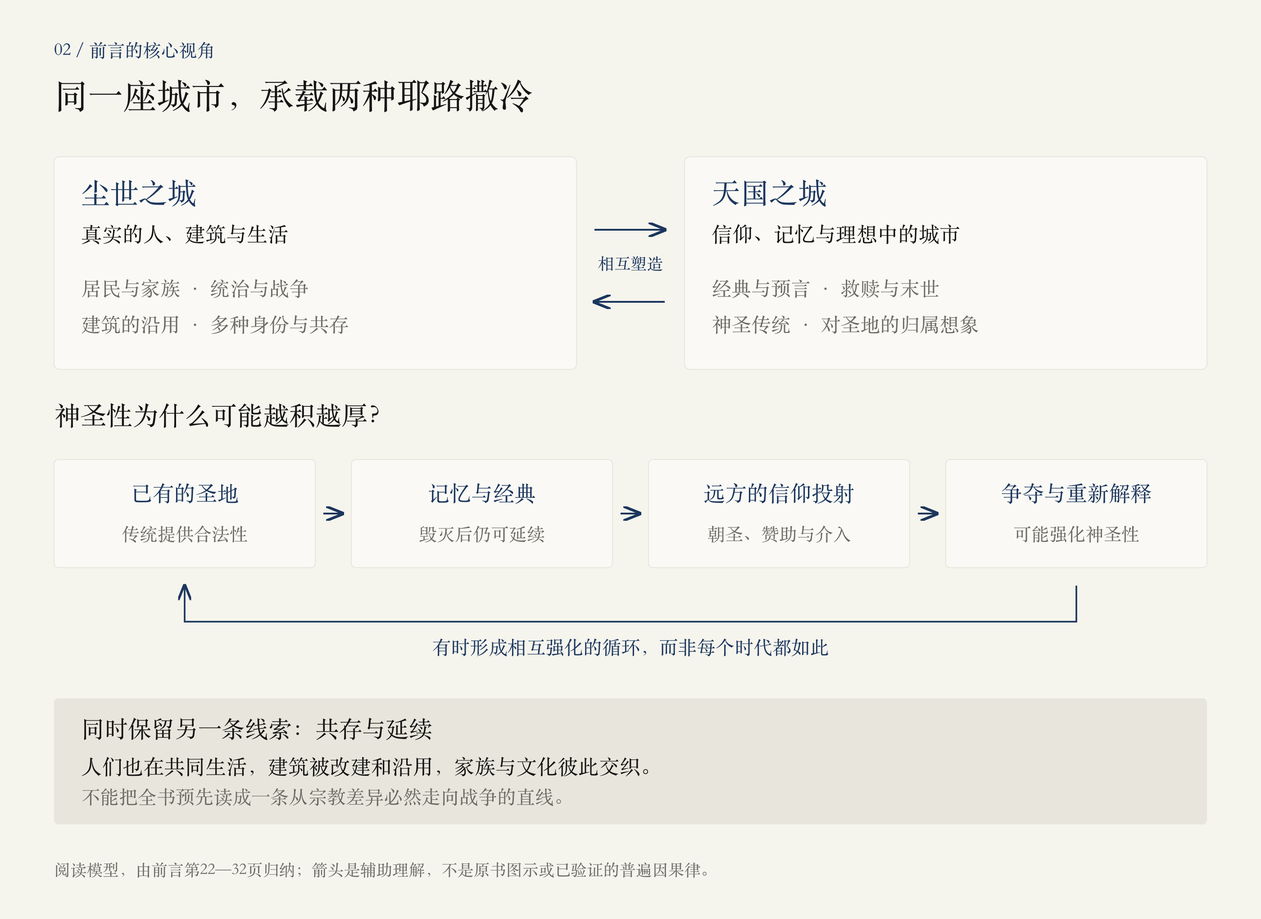
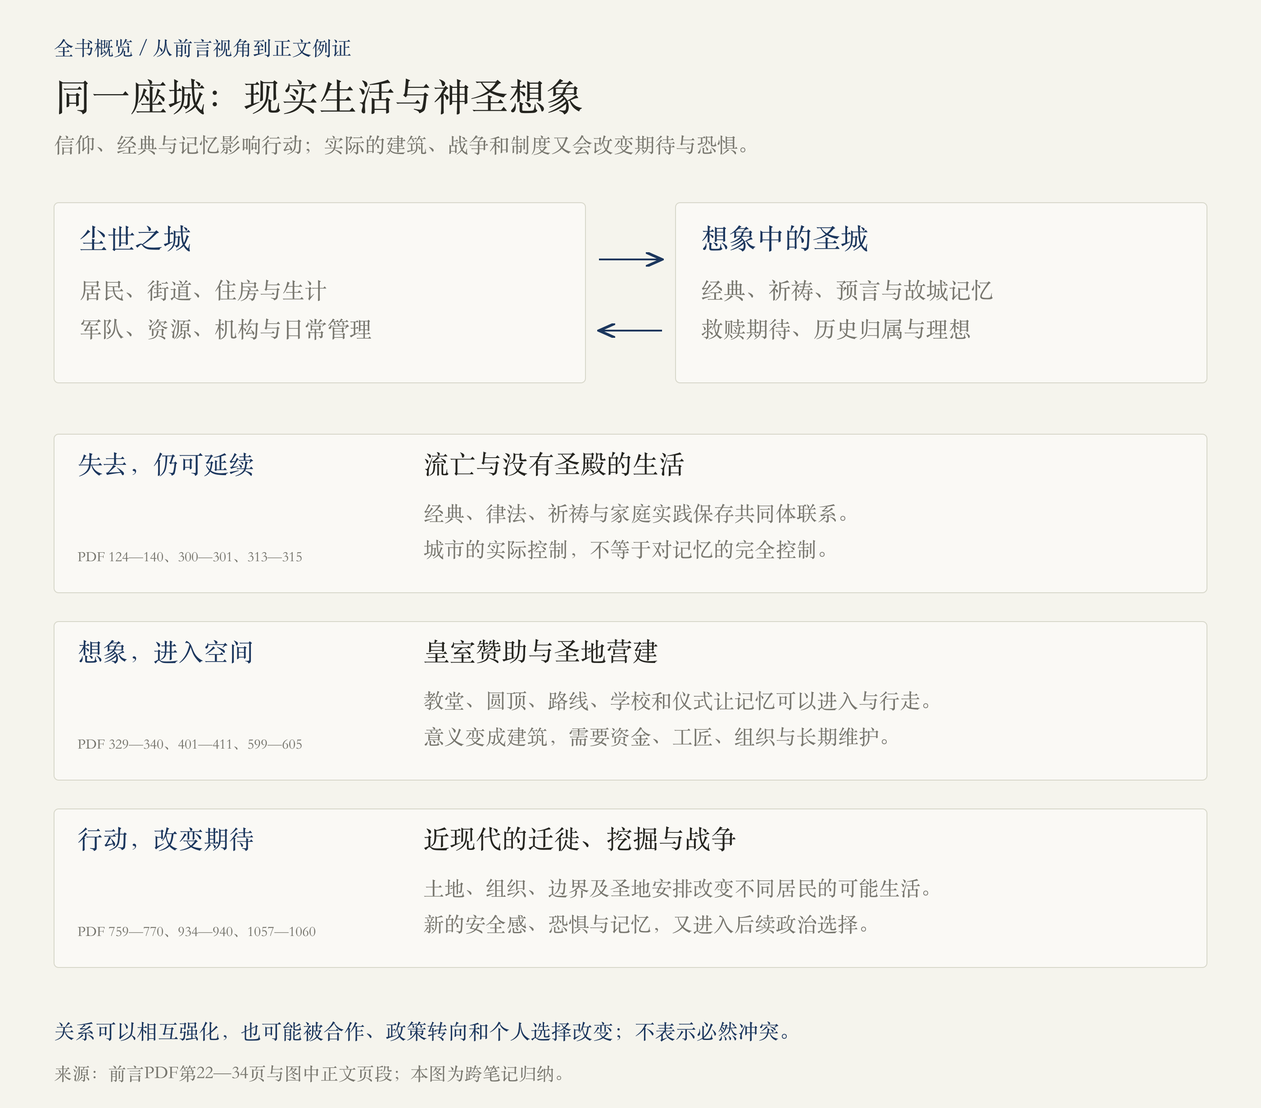
docs: synthesize Jerusalem overview from completed reading notes

diff --git a/books/jerusalem/notes/00-overview.md b/books/jerusalem/notes/00-overview.md
@@ -3,145 +3,141 @@ id: jerusalem-overview
 book_id: jerusalem
 title: 全书概览：一座小城，如何承载整个世界
 kind: overview
-status: 基于目录与前言
-version: 1
-updated: 2026-10-26
+status: 综合九部分正文、后记与既有导读
+version: 2
+updated: 2026-11-01
 source_pdf: /Users/billson/Downloads/耶路撒冷三千年.pdf
-source_ranges: 目录 PDF 6—18；前言 PDF 21—39
+source_ranges: 目录 PDF 6—18；前言 PDF 21—39；九部分正文及注释 PDF 60—1061；后记及注释 PDF 1062—1107；本次依据既有笔记综合，未新增PDF阅读
 ---
 
 # 全书概览：一座小城，如何承载整个世界
 
-> 阅读边界：本篇只依据目录与前言，不包含序幕、正文或后记的内容总结。页码均指这份PDF从第一页开始计算的文件页码。“今天”“当今”等表述若涉及原书观点，属于作者写作时的语境，不代表2026年的局势。
+> 阅读边界：v2依据此前整理的目录与前言、九部分第1—53章及后记笔记综合更新，本次未新增PDF阅读。对应来源为PDF第6—18、21—39、60—1107页；序幕第40—59页仍未单独精读，附录等不在范围。正文主线止于1967年，后记延伸至作者约2010—2011年的写作语境，不代表当代局势。所有页码均为PDF物理页码。
 
 <!-- block: core-question -->
-## 01 · 这本书究竟在讲什么
+## 01 · 读到后记，再回答：这本书究竟在讲什么？
 
-**一句话：作者以人物与家族为线索，按时间顺序讲述耶路撒冷如何被建造、毁坏、记忆和重新解释，逐渐成为多种信仰、帝国与民族诉求交汇的城市。**
+  **这是一部城市传记：神圣记忆不断吸引统治者、朝圣者与远方力量，他们把信仰和政治目标变成建筑、制度与战争；居民则在这些变化中谋生、迁徙、保存记忆，并重新定义自己的归属。**  作者以人物和家族串联三千年的变化，呈现同一座城如何被建造、毁坏、修复和解释。[前言，PDF第21—34页；各部分综合]
 
-它的中心问题是：为什么偏偏是耶路撒冷？前言指出，这座城市自然条件并不优越，远离海岸贸易路线、缺水，却吸引了远超其规模的情感与权力投入。理解它，需要同时看见现实中的居民与统治者，以及人们不断投射到它身上的神圣意义。[前言，PDF第21—27页]
+开卷时的问题是“为什么偏偏是耶路撒冷”。读到结尾后，可以把答案分成两层：经典、圣地传统、流亡记忆和救赎期待，使它的重要性远超地理规模；军队、财富、组织、外交、土地和日常管理，则决定这些意义怎样进入现实。一座城可以失去政治中心地位，却继续吸引远方的资源与情感。[第一部分PDF第117—140页；第三部分第323—340页；第六部分第596—616页；第八部分第708—764页]
 
-全书的基本写法是“城市传记”：时间是骨架，人物与家族是叙事载体。作者希望把古代王城、三大宗教、帝国竞争和现代民族运动放在同一条历史线上，但不把后来的结局写成早已注定的结果。[前言，PDF第28—34页]
+全书也不断让我们看见意义与后果之间的距离：建造壮丽圣所的君主未必解决继承和治理问题；宣称保护信仰的政权可能限制其他居民；取得城市的军队仍要面对通行、管理与生活安排。  **判断一次“胜利”，既要看谁获得了什么，也要看谁失去了什么。**  [第一部分第192—227页；第五部分第548—551、574—583页；第九部分第1008—1035页；后记第1067—1091页]
 
 <!-- block: book-map -->
-## 02 · 先看全书地图
+## 02 · 九部分与后记：每一段给了我们什么理解？
 
-![九部分阅读地图](../assets/overview-map.png)
+![九部分与后记的全书回读地图：从王城与圣殿，到国家、家园与清晨的日常](../assets/overview-map.png)
 
-图中时间表示目录的叙事范围，轴线不按年数比例绘制。分部以宗教、王朝或运动命名，只是在强调叙事重心；不能理解为某一信仰出现后，之前的人群就消失了。
+图按分部顺序排列，时间不按比例。分部标题标示叙事重心，信仰、人口和制度始终交叠；章题年代也不能替代正文实际范围。
 
 ### 01 · 犹太教｜第1—13章｜古代起源—公元70年
 
-**王城、圣殿与流亡。** 目录中的主要节点包括：大卫、所罗门、巴比伦、希律、耶稣、犹太战争。
-
-带着这个问题读：王城与圣殿如何成为共同体的中心？毁灭之后，记忆如何延续？
+王权与圣殿把城市变成共同体中心，亡国流亡又使经典、律法和故城记忆承担延续身份的作用。重建以后，希腊化、王朝竞争和罗马统治继续改变它；耶稣、雅各与保罗的讨论，则涉及救赎与共同体边界。  **建筑和国家可以失去，宗教与城市的联系仍能延续。**  第13章止于提图斯进军，70年围城详述在尚未精读的序幕，不能由章题补成已读经过。[回读第一部分](#/read/jerusalem-part-01)｜PDF第60—292页。
 
 ### 02 · 异教｜第14章｜70—312年
 
-**罗马重新定义城市。** 目录中的主要节点包括：罗马统治、哈德良、巴尔·科赫巴。
-
-带着这个问题读：征服者如何通过改造城市与圣地，重写它的身份？
+罗马以凯旋、税收、改名、道路和神庙重新定义城市。犹太人的律法与祈祷、基督徒的圣地传统，却在不同处境中继续发展。  **帝国控制公共空间，无法保证控制人们怎样记忆它。**  70年毁城与科赫巴起义后的惩罚属于不同断裂。[回读第二部分](#/read/jerusalem-part-02)｜PDF第293—320页。
 
 ### 03 · 基督教｜第15—16章｜312—630年
 
-**基督教圣城的塑造。** 目录中的主要节点包括：君士坦丁、海伦娜、拜占庭、波斯入侵。
-
-带着这个问题读：帝国的支持与对圣迹的追寻，如何改变城市的宗教重心？
+皇帝与贵族的支持，把地点记忆变成圣墓大教堂、朝圣路线、修道院和接待设施。新繁荣伴随教义竞争、排斥和街头暴力，波斯与拜占庭战争又改变社群处境。  **宗教取得帝国支持后，仍需面对内部协调和如何对待他者的问题。**  [回读第三部分](#/read/jerusalem-part-03)｜PDF第321—372页。
 
 ### 04 · 伊斯兰教｜第17—20章｜630—1099年
 
-**新的信仰进入旧圣地。** 目录中的主要节点包括：阿拉伯征服、倭玛亚、阿拔斯、法蒂玛。
-
-带着这个问题读：新信仰如何解释和利用已有的神圣空间？
+阿拉伯征服与倭玛亚营建，使圣殿山获得新的建筑、礼拜和王朝意义。其后权力中心转移，保护、限制、迫害与修复随政治环境变化。  **同一片圣地可以被重新解释，同一宗教统治也没有永恒不变的待遇规则。**  岩石圆顶、阿克萨与整个平台需要分别辨认。[回读第四部分](#/read/jerusalem-part-04)｜PDF第373—450页。
 
 ### 05 · 十字军东征｜第21—28章｜1099—1250年
 
-**圣战、王国与重新争夺。** 目录中的主要节点包括：十字军王国、梅利桑德、萨拉丁、理查。
-
-带着这个问题读：宗教目标如何与王朝、战争、外交和个人命运交织？
+夺城与屠杀之后，拉丁王国还要解决港口、兵力、人口和继承。萨拉丁征服、理查作战及后续谈判，把城市控制、圣地管理和朝圣通行拆成不同安排。  **攻得下、守得住、管得好与允许他人进入，需要不同条件。**  协议也可能遗漏居民利益，或在权力变化后失去保障。[回读第五部分](#/read/jerusalem-part-05)｜PDF第451—588页。
 
 ### 06 · 马木鲁克｜第29—30章｜1250—1517年
 
-**苏丹统治下的朝圣之城。** 目录中的主要节点包括：拜巴尔斯、纳西尔·穆罕默德、朝圣活动。
-
-带着这个问题读：聚光灯之外，这座城市如何继续生活？
+苏丹、军官与宗教资助者建设学校、修道院、陵墓和市场；瓦克夫连接信仰、公共用途与家族延续。城市同时经历苛征、治安不稳和准入限制。  **神圣声望和宏伟建筑，并不能独自保障居民的安全与生计。**  [回读第六部分](#/read/jerusalem-part-06)｜PDF第589—618页。
 
 ### 07 · 奥斯曼｜第31—33章｜1517—1799年
 
-**帝国、城墙与地方家族。** 目录中的主要节点包括：苏莱曼、神秘主义者、弥赛亚、地方家族。
-
-带着这个问题读：中央权力、地方家族与宗教生活怎样共同塑造城市？
+苏莱曼的城墙、供水和慈善工程改变实际城市；远方移民、宗教期待与外交保护拓展其联系，地方家族则通过职位、财富、学识和圣地职责积累影响。  **帝国、远方与家族，共同构成城市运作的网络。**  后来的统治沿用前代石材与建筑，保存也伴随改写。[回读第七部分](#/read/jerusalem-part-07)｜PDF第619—667页。
 
 ### 08 · 帝国｜第34—41章｜1799—1898年
 
-**世界重新把目光投向圣城。** 目录中的主要节点包括：拿破仑、欧洲列强、传教士、旅行者、考古学家。
-
-带着这个问题读：遥远的强国、宗教想象与知识生产，如何介入本地生活？
+远征之外，领事保护、传教、慈善、买地、考古和旅游，都成为介入圣城的方式。多个社群共同推动城外扩张，本地语言、商业和节日生活继续发展。  **即使没有取得城市主权，远方力量也能持续改变居民的选择。**  朝圣、避难迁徙和政治组织需要分别理解。[回读第八部分](#/read/jerusalem-part-08)｜PDF第668—797页。
 
 ### 09 · 犹太复国主义｜第42—53章｜1898—1967年
 
-**民族诉求、托管与战争。** 目录中的主要节点包括：赫茨尔、阿拉伯起义、英国托管、1948年、六日战争。
+政治运动把安全与自决诉求变成组织、外交、移民和国家计划；奥斯曼终结、英国托管、反抗与镇压、纳粹大屠杀及战争，使竞争不断改变。1948年建国的经验与巴勒斯坦人失去家园的灾难，同时进入城市历史；1949年的分隔与1967年的老城易手，又改变实际通路和圣地安排。  **宗教归返、民族家园、国家建立与军事控制，须逐层辨认。**  [回读第九部分](#/read/jerusalem-part-09)｜PDF第798—1061页。
 
-带着这个问题读：古老的神圣空间如何成为现代民族与国家诉求的焦点？
+### 后记 · 从那时到现在／明天／今晨
 
-以上各部分的问题是根据目录提出的阅读线索，尚不是对各章论证结果的总结。[目录，PDF第6—18页]
+作者回顾1967年后的建设、冲突与和平谈判，讨论共享城市的条件，最后让镜头停在拉比、钥匙保管人、守门人与宣礼吏的日常工作。  **占有城市，与让不同的人实际居住、进入和礼拜，仍有距离；城市也依靠每天履行职责的人延续。**  “明天”中的方案属于作者写作时的愿景。[回读后记](#/read/jerusalem-epilogue)｜PDF第1062—1107页。
 
 <!-- block: interpretive-model -->
-## 03 · 前言给了我们怎样的理解框架
+## 03 · 两个耶路撒冷，怎样在正文中相互塑造？
 
-![两个耶路撒冷与神圣性的累积](../assets/two-jerusalems.png)
+![现实城市与想象圣城的双向关系，以及古代、帝国营建、近现代三组例子](../assets/two-jerusalems.png)
 
-### 一座现实城市，也是一座想象中的城市
+“尘世之城”包含街道、居民、住房、资源和权力；“天国之城”包含经典、信仰、预言、记忆与理想。前言给出的这组视角，在正文中有三种尤其清楚的表现：
 
-前言反复区分“尘世的”和“天国的”耶路撒冷。前者是具体的街道、居民、建筑与权力；后者存在于信仰、经典、预言和理想中。当人们认为现实城市不符合心中的圣城时，就可能试图改变它。宗教想象因此会进入实际历史，而不只停留在信徒心中。[PDF第22—24、30、39页]
+-  **失去城市，仍能延续联系。**  巴比伦毁城后的流亡经验，以及后来没有圣殿时的律法、善行与祈祷，使共同体在远方保持身份和故城记忆。[第一部分PDF第124—140页；第二部分第300—301、313—315页]
+-  **想象可以转成可行走的空间。**  圣墓教堂、岩石圆顶、朝圣路线、学校与宗教设施，把信仰记忆变成建筑、仪式和资源组织；它们也表达统治者的声望与主张。[第三部分第329—340页；第四部分第401—411页；第六部分第599—605页]
+-  **实际行动也会反过来改变记忆与政治。**  挖掘、修缮、迁徙、战争与边界，让不同群体对同一地点产生新的期待和恐惧。政治领袖会借助古老记忆，实际的组织与制度又决定行动后果。[第八部分第759—770页；第九部分第934—940、1057—1060页；后记第1067—1091页]
 
-### 神圣性会通过记忆、传统与竞争而累积
+这些关系并非不断升级的单一循环：圣城也曾衰落、被忽视，不同群体内部始终有分歧；政治需要、地方利益、跨信仰联盟和个人帮助，会改变原本看似固定的对立。[前言PDF第29页；第五部分第496—501、509—513页；后记第1104—1105页]
 
-作者提出：一处地方因长久被尊崇而拥有传统的合法性，后来的信仰会解释、继承或争夺已有的圣地。毁灭也未必抹掉意义：作者以巴比伦毁城后的犹太记忆与经典书写为例，说明失去现实城市，有时反而促使它在共同体想象中变得更重要。[PDF第24—28、30—31页]
+<!-- block: cross-book-lessons -->
+## 04 · 贯穿全书的四条线，最后汇到居民身上
 
-这不意味着城市的重要性始终上升。前言明确说，它也有衰落、被忽视的时期；来自远方的信仰与政治需要，常会重新激活人们对它的投入。[PDF第29页]
+ **第一条：记忆的延续。**  神圣联系依靠经典、祈祷、节日、教育和家庭传递。毁坏有时强化记忆，但这不是灾难值得发生的理由，也不意味着每个人都作相同选择。[第一部分PDF第124—140页；第二部分第313—315页]
 
-### 冲突之外，还有共存、混合与日常生活
+ **第二条：意义需要资源才能落地。**  建筑要有人筹款与施工，圣所要有维护和收入，国家计划要有组织与执行。希律建殿、马木鲁克瓦克夫、苏莱曼供水、近代慈善住房，都可沿这一条线比较；各自制度与强制程度仍有区别。[PDF第205—209、600—605、623—625、748—759页]
 
-前言特别提醒：这里有许多相互重叠的文化和身份，人不能总被分成两个对立阵营。家族延续、建筑改建、居民生活，是这部城市传记不可省去的内容。只记住征服者名单，会漏掉作者想展示的连续性。[PDF第28—31、33页]
+ **第三条：远方与本地互相利用，也互相改变。**  皇室、教会、流散社群、领事和政治组织带来资源；地方家族、商人、学者和居民会争取、抵抗或改造这些机会。本地社会一直在行动。[第七部分PDF第627—642、655—666页；第八部分第708—718、772—789页]
+
+ **第四条：繁荣、虔敬与公平并不自动同步。**  一座学校可能兼有公共用途和家族利益，一次胜利可能改善部分人的进入条件却迫使另一些人离家。判断城市改变，应落到人能否安全生活、保有住房、自由行动并获得具体保障。[第六部分PDF第596—616页；第九部分第1008—1035页；后记第1067—1069、1082—1084页]
+
+<!-- block: rights-and-control -->
+## 05 · “得到耶路撒冷”，至少包含四种不同问题
+
+![跨时代区分：城市控制、圣地管理、实际进入与居住，以及记忆和历史主张](../assets/overview-rights.png)
+
+这种区分贯穿多份笔记：
+
+| 层面 | 应该问什么 | 已读内容中的例子 |
+| --- | --- | --- |
+| 城市控制 | 谁掌握军队、行政和实际统治？ | 波斯征服后更换地方支持对象，并不等于波斯已经退出。[PDF第360—364页] |
+| 圣地管理 | 谁维护场所、组织仪式、分配使用？ | 1229年城市与圣殿山被分别安排；1967年军事控制改变后，宗教管理另议。[PDF第577—582、1060页] |
+| 进入与居住 | 谁实际能来、能住、能礼拜？ | 1192年基督徒取得朝圣通行；后记讨论许可与隔离如何影响到达圣地。[PDF第568—569、1083—1084页] |
+| 记忆与主张 | 谁怎样解释这里，凭什么提出要求？ | 改名、文物发现、经典记忆与政治诉求相联，但各自需要证据与论证。[PDF第303—306、759—770、1090—1092页] |
+
+这是跨章节的阅读工具，不是把古代帝国、宗教管理与现代国家套进同一套法律。把问题拆开，才能看清承诺与执行、象征与实际控制之间的距离。
 
 <!-- block: author-method -->
-## 04 · 怎样理解作者的写法
+## 06 · 作者的写法，读完之后应该怎样评价？
 
-| 阅读时要区分什么 | 前言给出的提示 |
-| --- | --- |
-| 历史事实与人们相信的历史 | 作者不裁定宗教神迹是否真实，但信仰对人的行动产生的影响，是历史的一部分。 |
-| 作者的目标与实际实现程度 | 作者自述希望面向各信仰和无信仰读者、不服务于特定政治意图；是否做到，仍需读正文判断。 |
-| 流畅叙事与证据确定性 | 作者承认早期史料与考古存在争议，并说明正文不会反复写出所有“也许”“可能”；叙述肯定不等于证据没有争论。 |
-| 历史解释与今日立场 | 作者主张按时间顺序理解变化，避免以当下的关注重塑过去，也避免把结局写成必然。 |
+城市传记的优势，是让抽象力量通过人的选择显现：希律同时是建设者和残酷的王朝统治者；奥萨玛的友谊与偏见并存；瓦希夫从音乐与咖啡馆的记录者成为失去故居的人；后记的守门人又让漫长历史落在一把钥匙上。[PDF第192—227、496—501、824—826、1008—1009、1095—1099页]
 
-[前言，PDF第32—37页]
+流畅和鲜明也带来阅读上的风险。早期经典、晚出记载、游记、人物回忆、宫廷传闻、作者推测和现代研究，证据层次并不一致。正文中的对话与确定语气，需要连同注释的限定阅读；个别译名、日期或文件措辞，也在分部笔记中另作了核对或保留。[前言PDF第32—37页；第五部分第469—470页；第九部分笔记“战时安排”；后记笔记“谈判状态核对”]
 
-全书主体止于1967年。前言说明，后记会延伸讨论此后的发展，并以圣地清晨的描写收尾；本轮没有读取后记，因此不总结它的具体内容。[PDF第37—38页]
+作者自述希望跨越立场，不代表每项人物评价都中立。尤其后记对谈判责任和未来方案有明确判断。本概览沿用已整理笔记中的区分：信仰传统、书中叙述、证据未知与助手归纳分别标明；读者可以理解某个行动的背景，同时继续判断其具体责任与代价。
 
 <!-- block: reading-prompts -->
-## 05 · 接下来怎么读，才不容易迷失
+## 07 · 已读内容怎么串起来回看？
 
-不用一开始就记住所有人名。每读一段，先回答三个问题：
+可以按问题回读，不必从头再背一遍人名：
 
-1. **谁在行动？** 是统治者、家族、信仰共同体，还是本地居民？他们要改变什么？
-2. **什么使这里重要？** 是现实权力、经典记忆、朝圣传统，还是来自远方的期待？
-3. **什么改变了，什么留下了？** 城市易主后，建筑、居民、故事与日常生活怎样继续存在？
+1.  **失去建筑，为什么仍能保留圣城？**  从[流亡与经典](#/read/jerusalem-part-01/part-01-ch05)走到[没有圣殿的生活](#/read/jerusalem-part-02/part-02-parallel)，再看近现代的归返与家园诉求。
+2.  **同一处建筑，为什么不断获得新意义？**  连接[倭玛亚圣地营建](#/read/jerusalem-part-04/part-04-ch18)、[十字军与萨拉丁的用途调整](#/read/jerusalem-part-05/part-05-space)和[苏莱曼的城市工程](#/read/jerusalem-part-07/part-07-city)。
+3.  **谁在为神圣性提供长期资源？**  从[瓦克夫](#/read/jerusalem-part-06/part-06-waqf)回看皇室赞助，再到[近代保护与救济](#/read/jerusalem-part-08/part-08-ch37-protection)。
+4.  **为什么控制圣城以后，仍需要谈判？**  并读[中世纪的通行与管理](#/read/jerusalem-part-05/part-05-control)、[1947—1967年的不同安排](#/read/jerusalem-part-09/part-09-arrangements)与[后记的共享问题](#/read/jerusalem-epilogue/epilogue-layers)。
+5.  **普通人怎样让城市继续？**  把[语言与节日](#/read/jerusalem-part-08/part-08-ch40-life)、[瓦希夫离家](#/read/jerusalem-part-09/part-09-1948-civilians)与[圣地的清晨](#/read/jerusalem-epilogue/epilogue-morning)放在一起读，比较交往怎样建立、断裂与延续。
 
-适合下一轮的追问：
-
-- “天国的耶路撒冷”如何影响“尘世的耶路撒冷”？先用前言中的例子解释。
-- 为什么毁灭可能强化一座城市的神圣性？这个说法适用到什么程度？
-- 作者为什么强调家族与共存，而不只讲宗教战争？
-
-下一步可从序幕开始，或直接指定第一章的一小段；在确定范围后再读取。
+如果还想补齐叙事开场，可另读序幕PDF第40—59页。若讨论今天的局势，则需要另开专题、查证新资料，保留本书的历史时间边界。
 
 <!-- block: provenance -->
 ## 来源与更新记录
 
-- 源文件：用户提供的《耶路撒冷三千年》PDF，共1141页。
-- 本篇依据：目录第6—18页；前言第21—39页。另核对了第3—5页的书目信息。
-- 未读取：序幕、九部分正文、后记、附录与致谢。
-- 两张图均为依据目录与前言绘制的辅助图，不是原书插图，也不是地理地图。
-- 本篇ID：`jerusalem-overview`。内容块ID用于后续局部替换；追问可另存为独立笔记，避免重新生成概览时覆盖。
-- 2026-10-26：首版，基于目录与前言。
+- 本次以已有10篇分段笔记为直接整理依据：九部分正文及注释PDF第60—1061页，后记及注释第1062—1107页，并保留首版目录第6—18页、前言第21—39页的阅读框架。原导读另记录曾核对第3—5页书目信息，本次未重读。
+- 本次未新增PDF阅读。序幕第40—59页仍未单独精读；附录、致谢和译后记不在概览的已读依据中。概览覆盖全书主体线索，不表示整份1141页PDF逐页精读完成。
+- 原书主体止于1967年，后记回顾与前瞻止于作者写作语境；没有用后来的事件反推作者已知结局。分部中的外部历史文件核对，仍以各分部的标注为准。
+- 三张图均为基于既有笔记的原创理解示意，不是原书插图、精确地图或统一的历史因果模型；SVG源与PNG展示图分别保存。
+- 2026-10-26：v1，基于目录与前言的开卷导读。
+- 2026-11-01：v2，综合九部分正文与后记，重写阅读地图、贯穿线索、跨时代区分与回读路线；保留原笔记ID及原有六个模块ID。首版PDF仍作为历史导读保留，本版概览不再链接旧版PDF。
